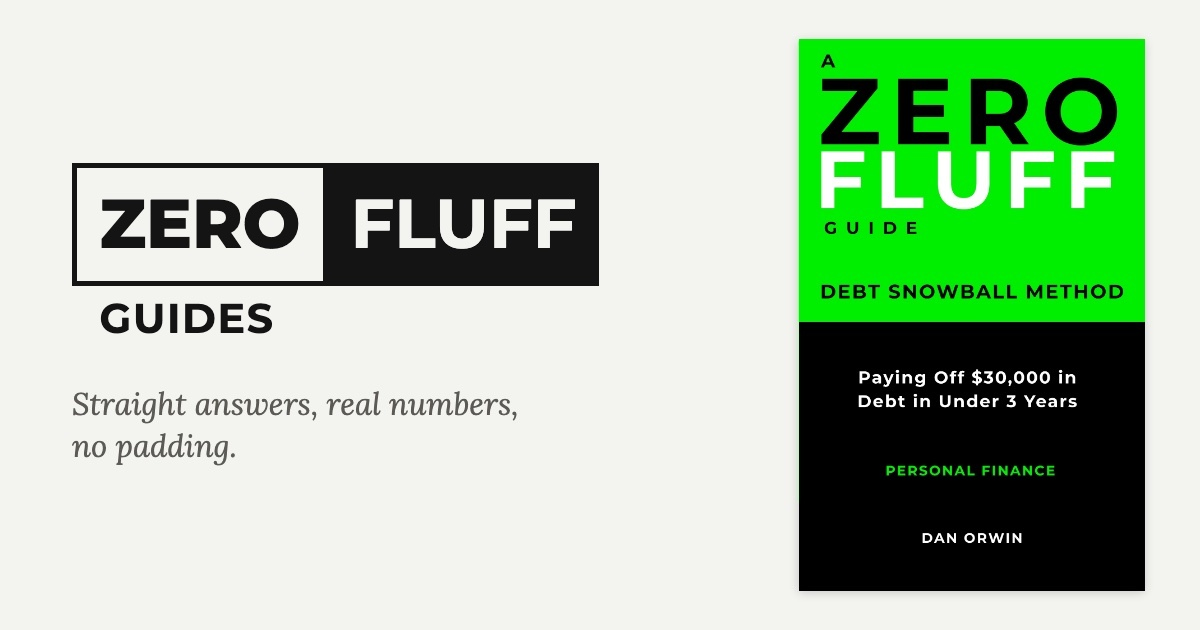
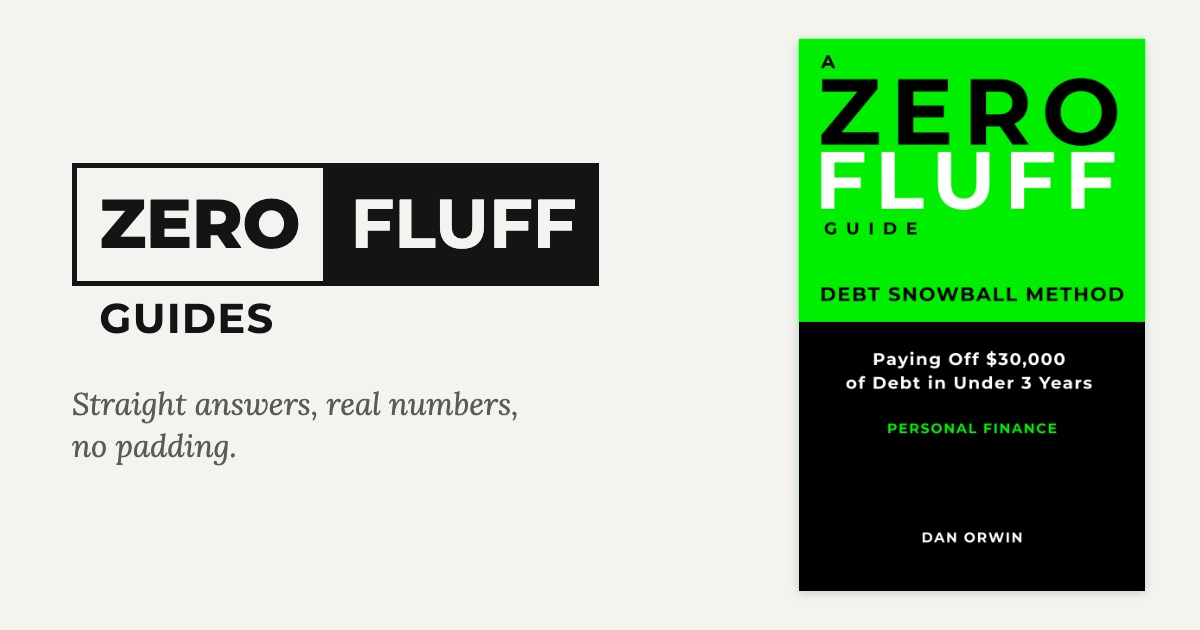
Share image: new "of Debt" Debt Snowball cover; bump to ?v=6
Claude-Session: https://claude.ai/code/session_01FJpq96JLMnzTgoXAHk4iHU

diff --git a/index.html b/index.html
@@ -11,13 +11,13 @@
 <meta property="og:url" content="https://zerofluffguides.com">
 <meta property="og:type" content="website">
 <meta property="og:site_name" content="Zero Fluff Guides">
-<meta property="og:image" content="https://zerofluffguides.com/assets/share/zero-fluff-guides-share.jpg?v=5">
+<meta property="og:image" content="https://zerofluffguides.com/assets/share/zero-fluff-guides-share.jpg?v=6">
 <meta property="og:image:width" content="1200">
 <meta property="og:image:height" content="630">
 <meta name="twitter:card" content="summary_large_image">
 <meta name="twitter:title" content="Zero Fluff Guides">
 <meta name="twitter:description" content="Short, direct books built around one problem and one working plan to fix it. Real numbers, real steps, and free tools that do the math for you.">
-<meta name="twitter:image" content="https://zerofluffguides.com/assets/share/zero-fluff-guides-share.jpg?v=5">
+<meta name="twitter:image" content="https://zerofluffguides.com/assets/share/zero-fluff-guides-share.jpg?v=6">
 <link rel="preconnect" href="https://fonts.googleapis.com">
 <link rel="preconnect" href="https://fonts.gstatic.com" crossorigin>
 <link href="https://fonts.googleapis.com/css2?family=Montserrat:wght@700;800&family=Oswald:wght@500;600;700&family=Lora:ital,wght@0,400;0,600;1,400&display=swap" rel="stylesheet">

diff --git a/preview.html b/preview.html
@@ -11,13 +11,13 @@
 <meta property="og:url" content="https://zerofluffguides.com">
 <meta property="og:type" content="website">
 <meta property="og:site_name" content="Zero Fluff Guides">
-<meta property="og:image" content="https://zerofluffguides.com/assets/share/zero-fluff-guides-share.jpg?v=5">
+<meta property="og:image" content="https://zerofluffguides.com/assets/share/zero-fluff-guides-share.jpg?v=6">
 <meta property="og:image:width" content="1200">
 <meta property="og:image:height" content="630">
 <meta name="twitter:card" content="summary_large_image">
 <meta name="twitter:title" content="Zero Fluff Guides">
 <meta name="twitter:description" content="Short, direct books built around one problem and one working plan to fix it. Real numbers, real steps, and free tools that do the math for you.">
-<meta name="twitter:image" content="https://zerofluffguides.com/assets/share/zero-fluff-guides-share.jpg?v=5">
+<meta name="twitter:image" content="https://zerofluffguides.com/assets/share/zero-fluff-guides-share.jpg?v=6">
 <meta name="robots" content="noindex">
 <link rel="preconnect" href="https://fonts.googleapis.com">
 <link rel="preconnect" href="https://fonts.gstatic.com" crossorigin>
